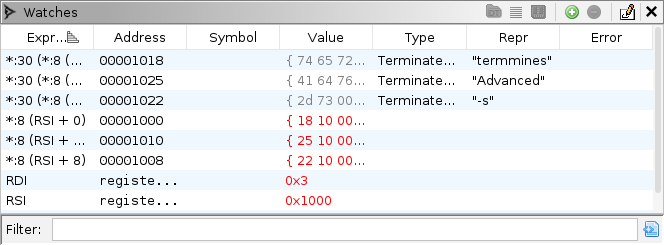
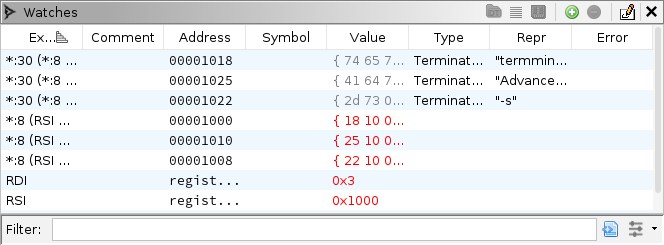
GP-6032: Update Watches screenshots and documentation. Fix mentions of Threads window having step schedule.

diff --git a/GhidraDocs/GhidraClass/Debugger/B2-Emulation.html b/GhidraDocs/GhidraClass/Debugger/B2-Emulation.html
@@ -190,8 +190,8 @@ of the target into the future, without allowing the actual target to
 execute. Instead, we will allow an emulator to step forward, while
 reading its initial state from the live target. This allows you, e.g.,
 to experiment with various patches, or to force execution down a certain
-path. If you devise a patch, you can then apply it the live target and
-allow it to execute for real. <em>Interpolation</em> is similar, but
+path. If you devise a patch, you can then apply it to the live target
+and allow it to execute for real. <em>Interpolation</em> is similar, but
 from a snapshot that is in the past. It can help answer the question,
 “How did I get here?” It is more limited, because missing state for
 snapshots in the past cannot be recovered.</p>
@@ -495,13 +495,13 @@ parser may not actually <em>use</em> the value of
 <p>Use the Watches window to set <code>RDI</code> to 1, then click <img
 src="images/resume.png" alt="resume button" /> <strong>Resume</strong>.
 Like before, the emulator will crash, but this time you should see “pc =
-00000000” in red. This probably indicates success. In the Threads
-window, you should see a schedule similar to
-<code>0:t0-{RDI=0x1);t0-16</code>. This tells us we first patched RDI,
-then emulated 16 machine instructions before crashing. When the parser
-function returned, it probably read a stale 0 as the return address, so
-we would expect a decode error at <code>00000000</code>. Step backward
-once to confirm this hypothesis.</p>
+00000000” in red. This probably indicates success. In the trace tab, you
+should see a schedule similar to <code>0:t0-{RDI=0x1);t0-16</code>. This
+tells us we first patched RDI, then emulated 16 machine instructions
+before crashing. When the parser function returned, it probably read a
+stale 0 as the return address, so we would expect a decode error at
+<code>00000000</code>. Step backward once to confirm this
+hypothesis.</p>
 </section>
 <section id="stubbing-external-calls" class="level3">
 <h3>Stubbing External Calls</h3>
@@ -803,13 +803,13 @@ is ephemeral.</li>
 according to the assigned type.</li>
 </ul>
 <p>As you step, you may notice the schedule changes. It is displayed in
-the stepper’s subtitle as well as the Threads panel’s subtitle. P-code
-stepping is denoted by the portion of the schedule following the dot.
+the stepper’s subtitle as well as in the trace tab. P-code stepping is
+denoted by the portion of the schedule following the dot.
 <strong>NOTE</strong>: You cannot mix instruction steps with p-code op
-steps. The instruction steps always precede the p-code ops. If you click
-<strong>Step Into</strong> from the global toolbar in the middle of an
-instruction, the trailing p-code op steps will be removed and replaced
-with a single instruction step. In most cases, this intuitively
+steps. The instruction steps always precede the p-code op steps. If you
+click <strong>Step Into</strong> from the global toolbar in the middle
+of an instruction, the trailing p-code op steps will be removed and
+replaced with a single instruction step. In most cases, this intuitively
 “finishes” the partial instruction.</p>
 </section>
 </section>

diff --git a/GhidraDocs/GhidraClass/Debugger/A4-MachineState.html b/GhidraDocs/GhidraClass/Debugger/A4-MachineState.html
@@ -318,10 +318,9 @@ after a call to rand</figcaption>
 <p>Just as the Dynamic Listing is the analog of the Static Listing, the
 Memory viewer is the analog of the Bytes viewer. To open it, use
 <strong>Windows → Byte Viewer → Memory …</strong> in the menus. Its
-default configuration should be Auto PC, the same as the Dynamic
-Listing’s default. It has all the same additional Debugger features as
-the Dynamic Listing. Furthermore, bytes that have changed are displayed
-in red text.</p>
+configuration should be Auto PC, the same as the Dynamic Listing’s. It
+has all the same additional Debugger features as the Dynamic Listing.
+Furthermore, bytes that have changed are displayed in red text.</p>
 <section id="exercise-display-the-board-in-hex" class="level3">
 <h3>Exercise: Display the Board in Hex</h3>
 <p>This is a bit quick and dirty, but it works and can be useful. Your
@@ -417,6 +416,8 @@ which adds the current selection to the Watches window.</p>
 <ul>
 <li>The <strong>Expression</strong> column is the user-defined Sleigh
 expression.</li>
+<li>The <strong>Comment</strong> column is a user-defined comment,
+usually to describe the watch.</li>
 <li>The <strong>Address</strong> column is the address of the resulting
 value, if applicable. This may be in <code>register</code> space.
 Double-clicking this cell will go to the address in the Dynamic

diff --git a/GhidraDocs/GhidraClass/Debugger/B2-Emulation.md b/GhidraDocs/GhidraClass/Debugger/B2-Emulation.md
@@ -40,7 +40,7 @@ This is perhaps the easiest use case, assuming you already have started a live s
 *Extrapolation* is predicting execution of the target into the future, without allowing the actual target to execute.
 Instead, we will allow an emulator to step forward, while reading its initial state from the live target.
 This allows you, e.g., to experiment with various patches, or to force execution down a certain path.
-If you devise a patch, you can then apply it the live target and allow it to execute for real.
+If you devise a patch, you can then apply it to the live target and allow it to execute for real.
 *Interpolation* is similar, but from a snapshot that is in the past.
 It can help answer the question, "How did I get here?"
 It is more limited, because missing state for snapshots in the past cannot be recovered.
@@ -251,7 +251,7 @@ It is possible we may only need to initialize `argc`, since the parser may not a
 Use the Watches window to set `RDI` to 1, then click ![resume button](images/resume.png) **Resume**.
 Like before, the emulator will crash, but this time you should see "pc = 00000000" in red.
 This probably indicates success.
-In the Threads window, you should see a schedule similar to `0:t0-{RDI=0x1);t0-16`.
+In the trace tab, you should see a schedule similar to `0:t0-{RDI=0x1);t0-16`.
 This tells us we first patched RDI, then emulated 16 machine instructions before crashing.
 When the parser function returned, it probably read a stale 0 as the return address, so we would expect a decode error at `00000000`.
 Step backward once to confirm this hypothesis.
@@ -475,9 +475,9 @@ The columns are:
 * The **Repr** column gives the variable's value according to the assigned type.
 
 As you step, you may notice the schedule changes.
-It is displayed in the stepper's subtitle as well as the Threads panel's subtitle.
+It is displayed in the stepper's subtitle as well as in the trace tab.
 P-code stepping is denoted by the portion of the schedule following the dot.
 **NOTE**: You cannot mix instruction steps with p-code op steps.
-The instruction steps always precede the p-code ops.
+The instruction steps always precede the p-code op steps.
 If you click **Step Into** from the global toolbar in the middle of an instruction, the trailing p-code op steps will be removed and replaced with a single instruction step.
 In most cases, this intuitively "finishes" the partial instruction.

diff --git a/GhidraDocs/GhidraClass/Debugger/A4-MachineState.md b/GhidraDocs/GhidraClass/Debugger/A4-MachineState.md
@@ -149,7 +149,7 @@ You can also experiment by placing code units in the Dynamic Listing before comm
 
 Just as the Dynamic Listing is the analog of the Static Listing, the Memory viewer is the analog of the Bytes viewer.
 To open it, use **Windows &rarr; Byte Viewer &rarr; Memory ...** in the menus.
-Its default configuration should be Auto PC, the same as the Dynamic Listing's default.
+Its configuration should be Auto PC, the same as the Dynamic Listing's.
 It has all the same additional Debugger features as the Dynamic Listing.
 Furthermore, bytes that have changed are displayed in red text.
 
@@ -221,6 +221,7 @@ The context menus for the Listing and Registers windows include a **Watch** acti
 The columns are:
 
 * The **Expression** column is the user-defined Sleigh expression.
+* The **Comment** column is a user-defined comment, usually to describe the watch.
 * The **Address** column is the address of the resulting value, if applicable.
   This may be in `register` space.
   Double-clicking this cell will go to the address in the Dynamic Listing.
